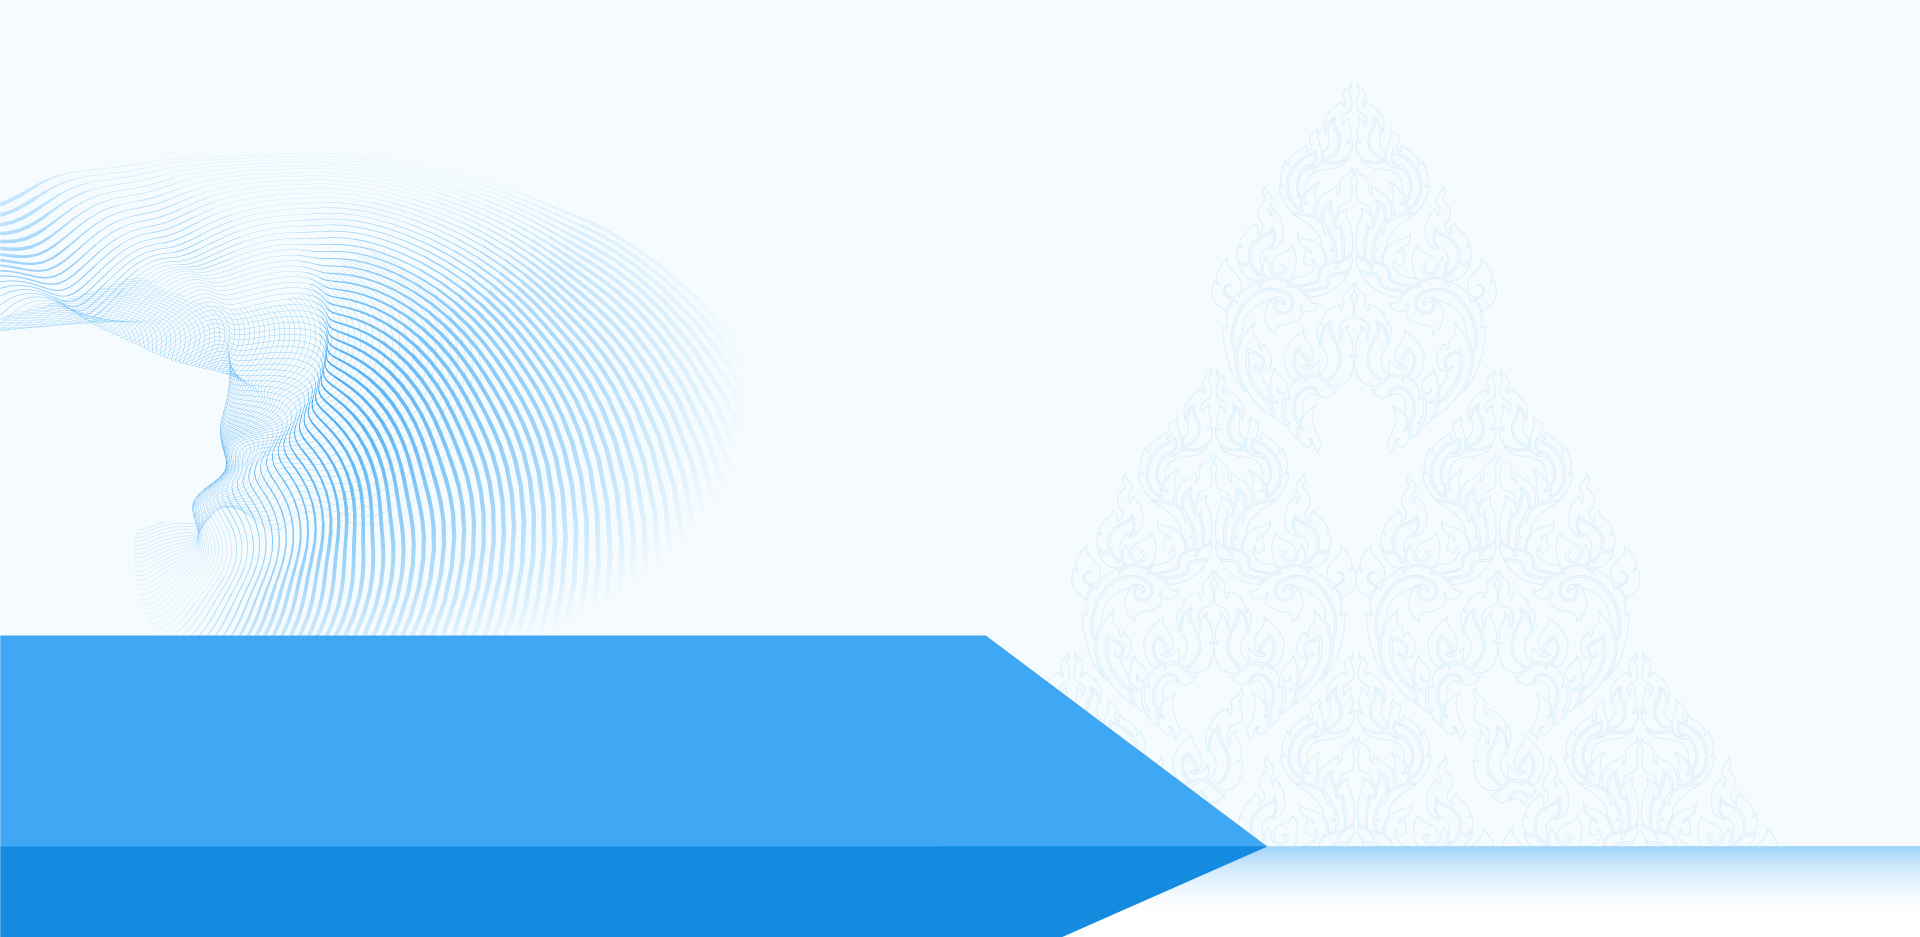
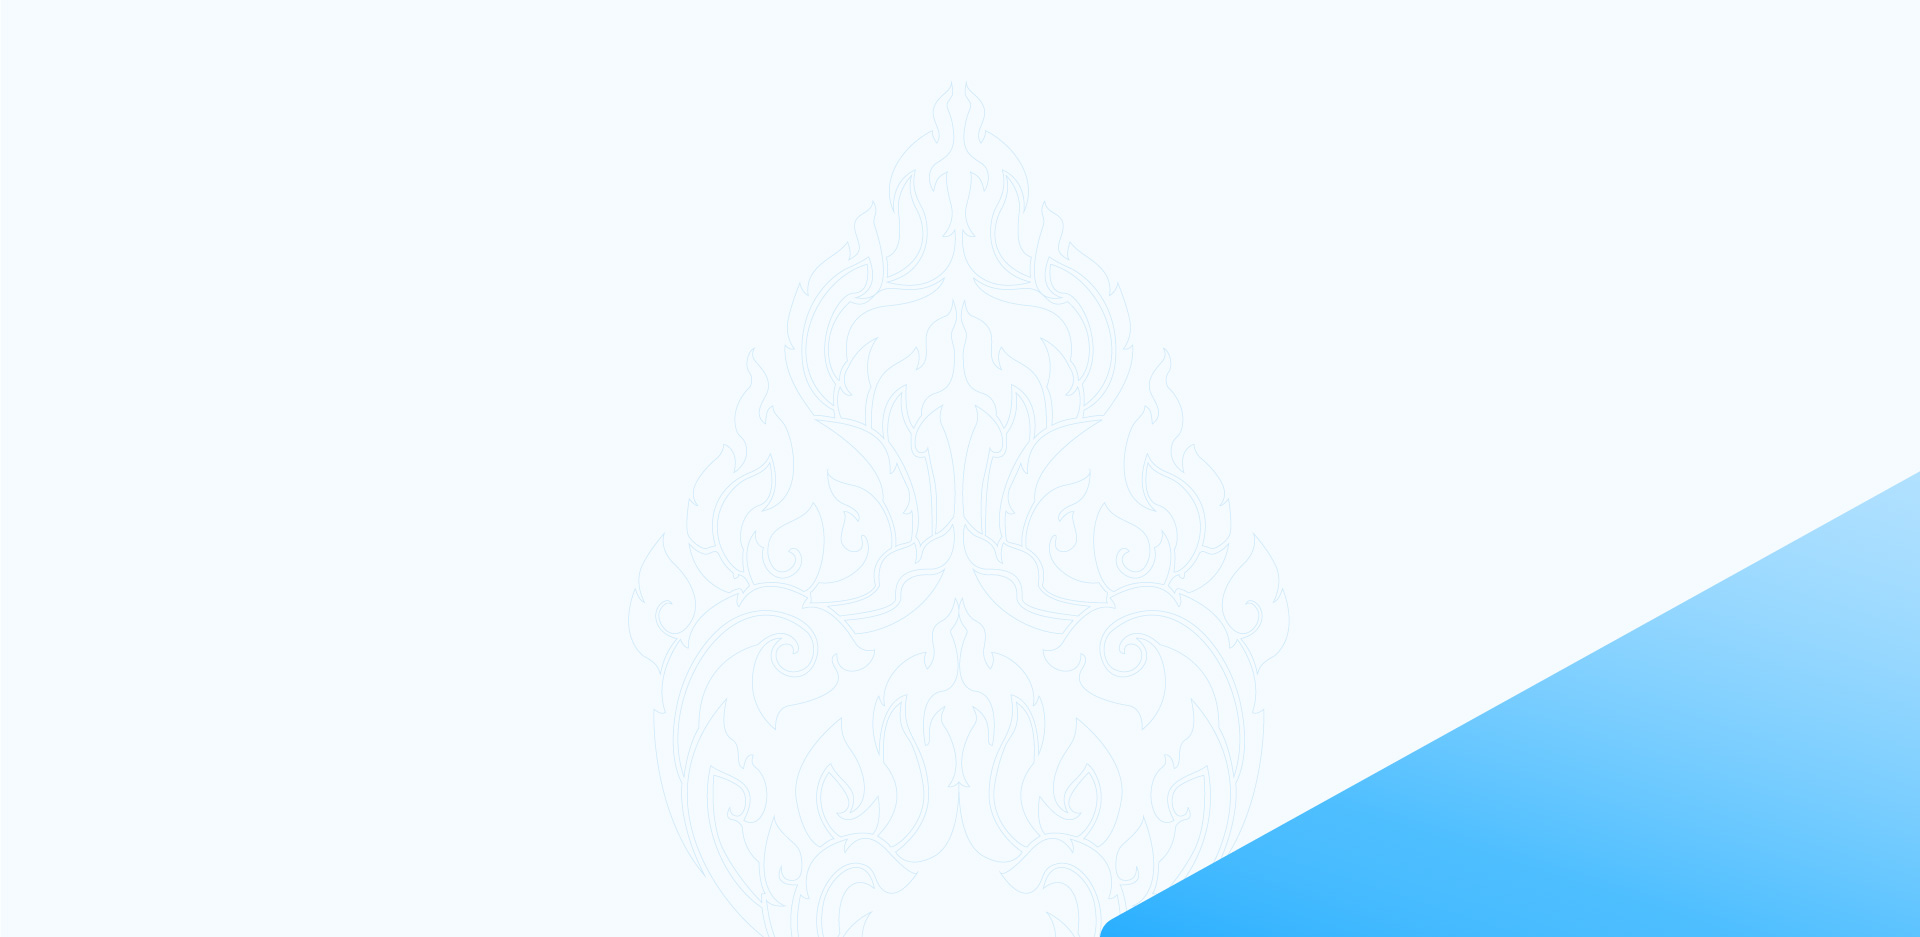
version 33 add layer 2

diff --git a/src/components/home/part1component.vue b/src/components/home/part1component.vue
@@ -26,8 +26,13 @@
       :height="mobileMode ? (window.width < 500 ? '570px' : '400px') : window.width >= 1600 ? '750px' : '600px'"
       :thumbnails="mobileMode ? false : false"
     >
-      <q-carousel-slide style="background-size: 100% 100%;" :name="1" :img-src="mobileMode ? '/assets/img/bg-section1.jpg' : '/assets/img/bg-section1.jpg'" />
-
+      <q-carousel-slide
+        style="background-size: 100% 100%;"
+        :name="1"
+        :img-src="mobileMode ? '/assets/img/bg-section1-content.jpg' : '/assets/img/bg-section1-content.jpg'"
+      />
+      <!-- <q-carousel-slide style="background-size: 100% 100%;" :name="1" :img-src="mobileMode ? '/assets/img/bg-section1.jpg' : '/assets/img/bg-section1.jpg'" /> -->
+      <!-- 
       <template v-slot:control>
         <q-carousel-control :position="mobileMode ? 'top' : 'left'">
           <img src="/assets/img/laptop-mobile.png" :style="window.width === 1366 ? 'height: 335px;margin-top: 100px;' : 'height: 335px;margin-top: 28%;'" />
@@ -43,7 +48,7 @@
                 : window.width === 1366
                 ? 'border:0;margin-top:60px;margin-left: 33pc;padding-right: 1%;'
                 : window.width < 1366
-                ? 'border:0;margin-top:50px;margin-left: 40pc;padding-right: 147px;'
+                ? 'border:0;margin-top:50px;margin-left: 40pc;padding-right: 1%;'
                 : window.width >= 1600
                 ? 'border:0;margin-top:100px;margin-left: calc(45% + 5px); padding-right: calc(5% - 0px);'
                 : 'border:0;margin-top:100px;margin-left: calc(40% - 0px); padding-right: calc(10% - 0px);'
@@ -89,9 +94,9 @@
           </q-card>
         </q-carousel-control>
         <q-carousel-control v-if="!mobileMode" :position="'top-right'" class="q-gutter-xs text-right">
-          <img src="/assets/img/Logo-LVBDigiBank.png" style="width:277px" alt />
+          <img src="/assets/img/Logo-LVBDigiBank.svg" style="width:50%" alt />
         </q-carousel-control>
-      </template>
+      </template> -->
     </q-carousel>
   </div>
 </template>

diff --git a/src/components/home/part3component.vue b/src/components/home/part3component.vue
@@ -1,5 +1,5 @@
 <template>
-  <div>
+  <div class="spacepartonhome">
     <q-carousel
       swipeable
       animated
@@ -11,7 +11,12 @@
       "
       :thumbnails="mobileMode ? false : false"
     >
-      <q-carousel-slide style="background-size: 100% 100%;" :name="1" :img-src="mobileMode ? '/assets/img/bg-thatluang.jpg' : '/assets/img/bg-thatluang.jpg'" />
+      <q-carousel-slide
+        style="background-size: 100% 100%;"
+        :name="1"
+        :img-src="mobileMode ? '/assets/img/bg-thatluang-content.jpg' : '/assets/img/bg-thatluang-content.jpg'"
+      />
+      <!-- <q-carousel-slide style="background-size: 100% 100%;" :name="1" :img-src="mobileMode ? '/assets/img/bg-thatluang.jpg' : '/assets/img/bg-thatluang.jpg'" />
       <template v-slot:control>
         <q-carousel-control :position="mobileMode ? 'right' : 'right'" class="q-gutter-xs text-left text-black">
           <q-card
@@ -88,7 +93,7 @@
             </q-card-section>
           </q-card>
         </q-carousel-control>
-      </template>
+      </template> -->
     </q-carousel>
   </div>
 </template>

diff --git a/src/components/home/part2component.vue b/src/components/home/part2component.vue
@@ -1,5 +1,5 @@
 <template>
-  <div>
+  <div class="spacepartonhome">
     <q-carousel
       swipeable
       animated
@@ -12,9 +12,9 @@
       <q-carousel-slide
         style="background-size: 100% 100%;"
         :name="1"
-        :img-src="mobileMode ? '/assets/img/bg-mobile-app.jpg' : '/assets/img/bg-mobile-app.jpg'"
+        :img-src="mobileMode ? '/assets/img/bg-mobile-app-content.jpg' : '/assets/img/bg-mobile-app-content.jpg'"
       />
-      <template v-slot:control>
+      <!-- <template v-slot:control>
         <q-carousel-control :position="mobileMode ? 'left' : 'left'" class="q-gutter-xs text-left text-black">
           <q-card
             flat
@@ -86,7 +86,7 @@
             </q-card-section>
           </q-card>
         </q-carousel-control>
-      </template>
+      </template> -->
     </q-carousel>
     <!-- <div class="q-pa-sm q-mt-lg bg-grey-1">
       <div class="row q-col-gutter-xs" v-if="$q.screen.name == 'xs'">

diff --git a/src/styles/quasar.scss b/src/styles/quasar.scss
@@ -157,8 +157,12 @@ a:hover {
   background-size: cover;
 }
 
-text-lvbdigibank {
+.text-lvbdigibank {
   color: #17479b !important;
+}
+
+.spacepartonhome {
+  margin-top: 20px;
 }
 
 

diff --git a/src/components/home/part6component.vue b/src/components/home/part6component.vue
@@ -1,5 +1,5 @@
 <template>
-  <div class="contact-footer">
+  <div class="contact-footer spacepartonhome">
     <q-carousel
       swipeable
       animated

diff --git a/src/components/home/part4component.vue b/src/components/home/part4component.vue
@@ -1,5 +1,5 @@
 <template>
-  <div>
+  <div class="spacepartonhome">
     <q-carousel
       swipeable
       animated

diff --git a/src/components/home/part5component.vue b/src/components/home/part5component.vue
@@ -1,5 +1,5 @@
 <template>
-  <div>
+  <div class="spacepartonhome">
     <q-carousel
       swipeable
       animated
